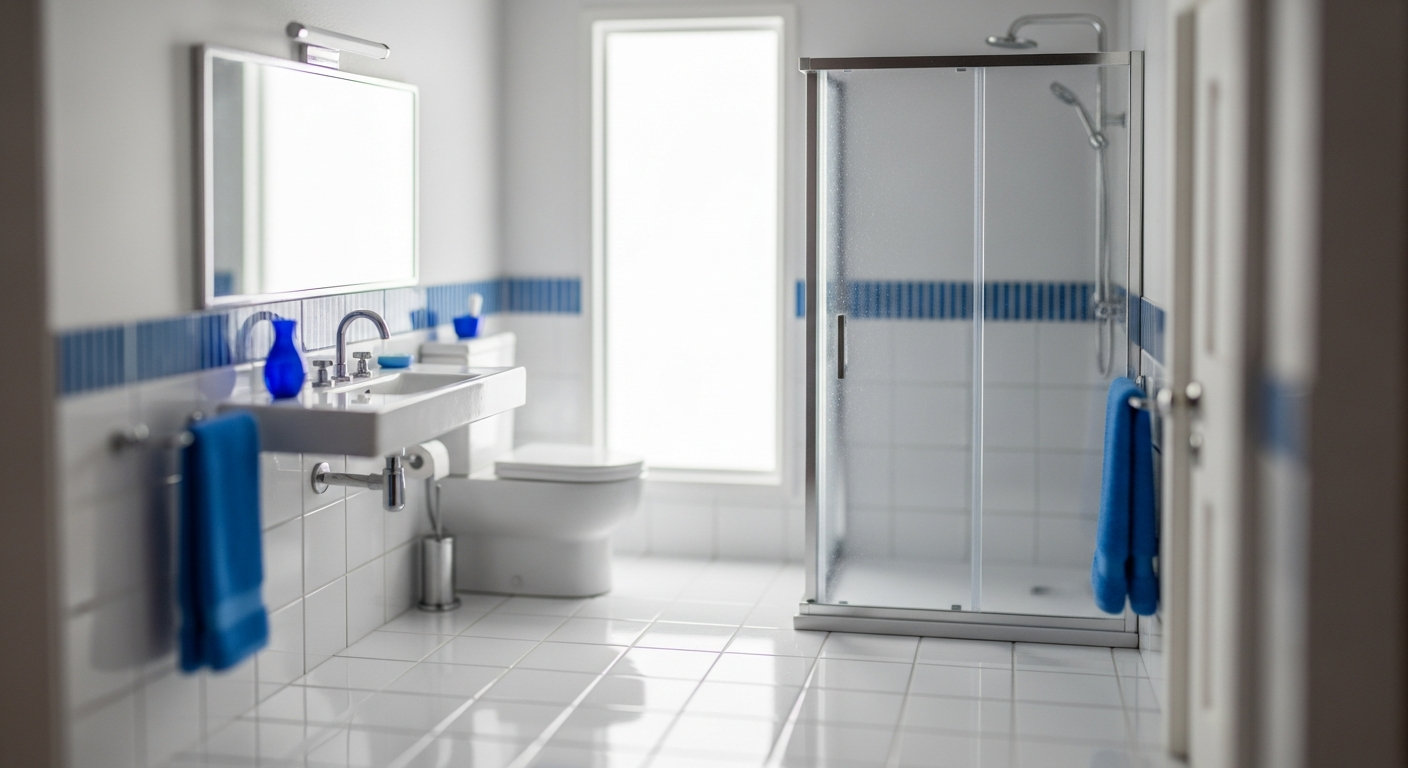
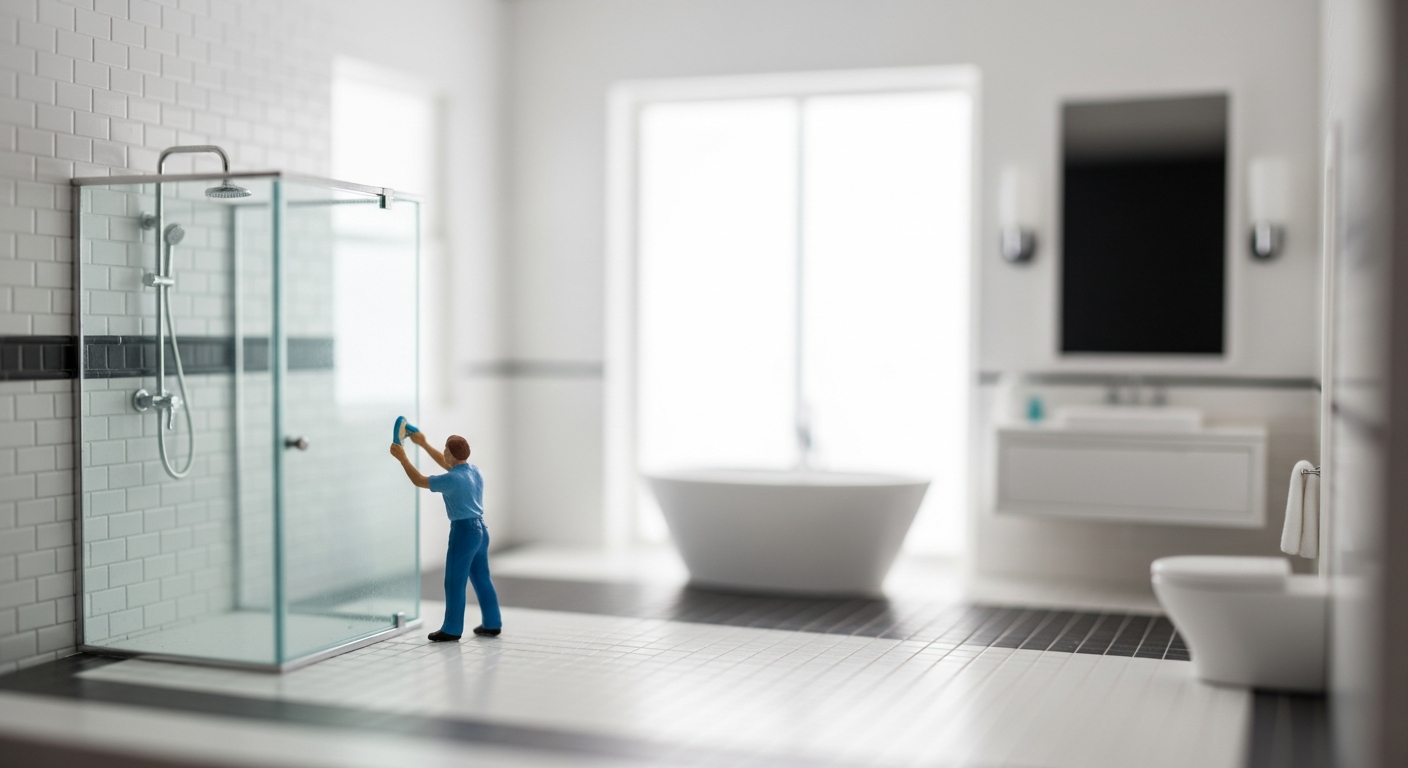
Add people to kitchen and bathroom images and add exterior window cleaning scene
Update home hero carousel with new tilt-shift images including cleaners in kitchen/bathroom and an exterior window cleaning scene, along with updated image metadata.

Replit-Commit-Author: Agent
Replit-Commit-Session-Id: ccf4c33f-0e22-4896-a965-ae5814b50bbd
Replit-Commit-Checkpoint-Type: full_checkpoint
Replit-Commit-Event-Id: 5e498400-6c7d-472f-bb74-c7abf9d642a1
Replit-Commit-Screenshot-Url: https://storage.googleapis.com/screenshot-production-us-central1/b344bfab-6f91-421f-94c6-48e3dd77e76f/ccf4c33f-0e22-4896-a965-ae5814b50bbd/GczkbRw
Replit-Helium-Checkpoint-Created: true

diff --git a/client/src/components/home/hero.tsx b/client/src/components/home/hero.tsx
@@ -12,6 +12,7 @@ export function Hero() {
     "/assets/tiltshift/home/hero-4.png",
     "/assets/tiltshift/home/hero-5.png",
     "/assets/tiltshift/home/hero-6.png",
+    "/assets/tiltshift/home/hero-7.png",
   ];
 
   const [currentImageIndex, setCurrentImageIndex] = useState(0);
